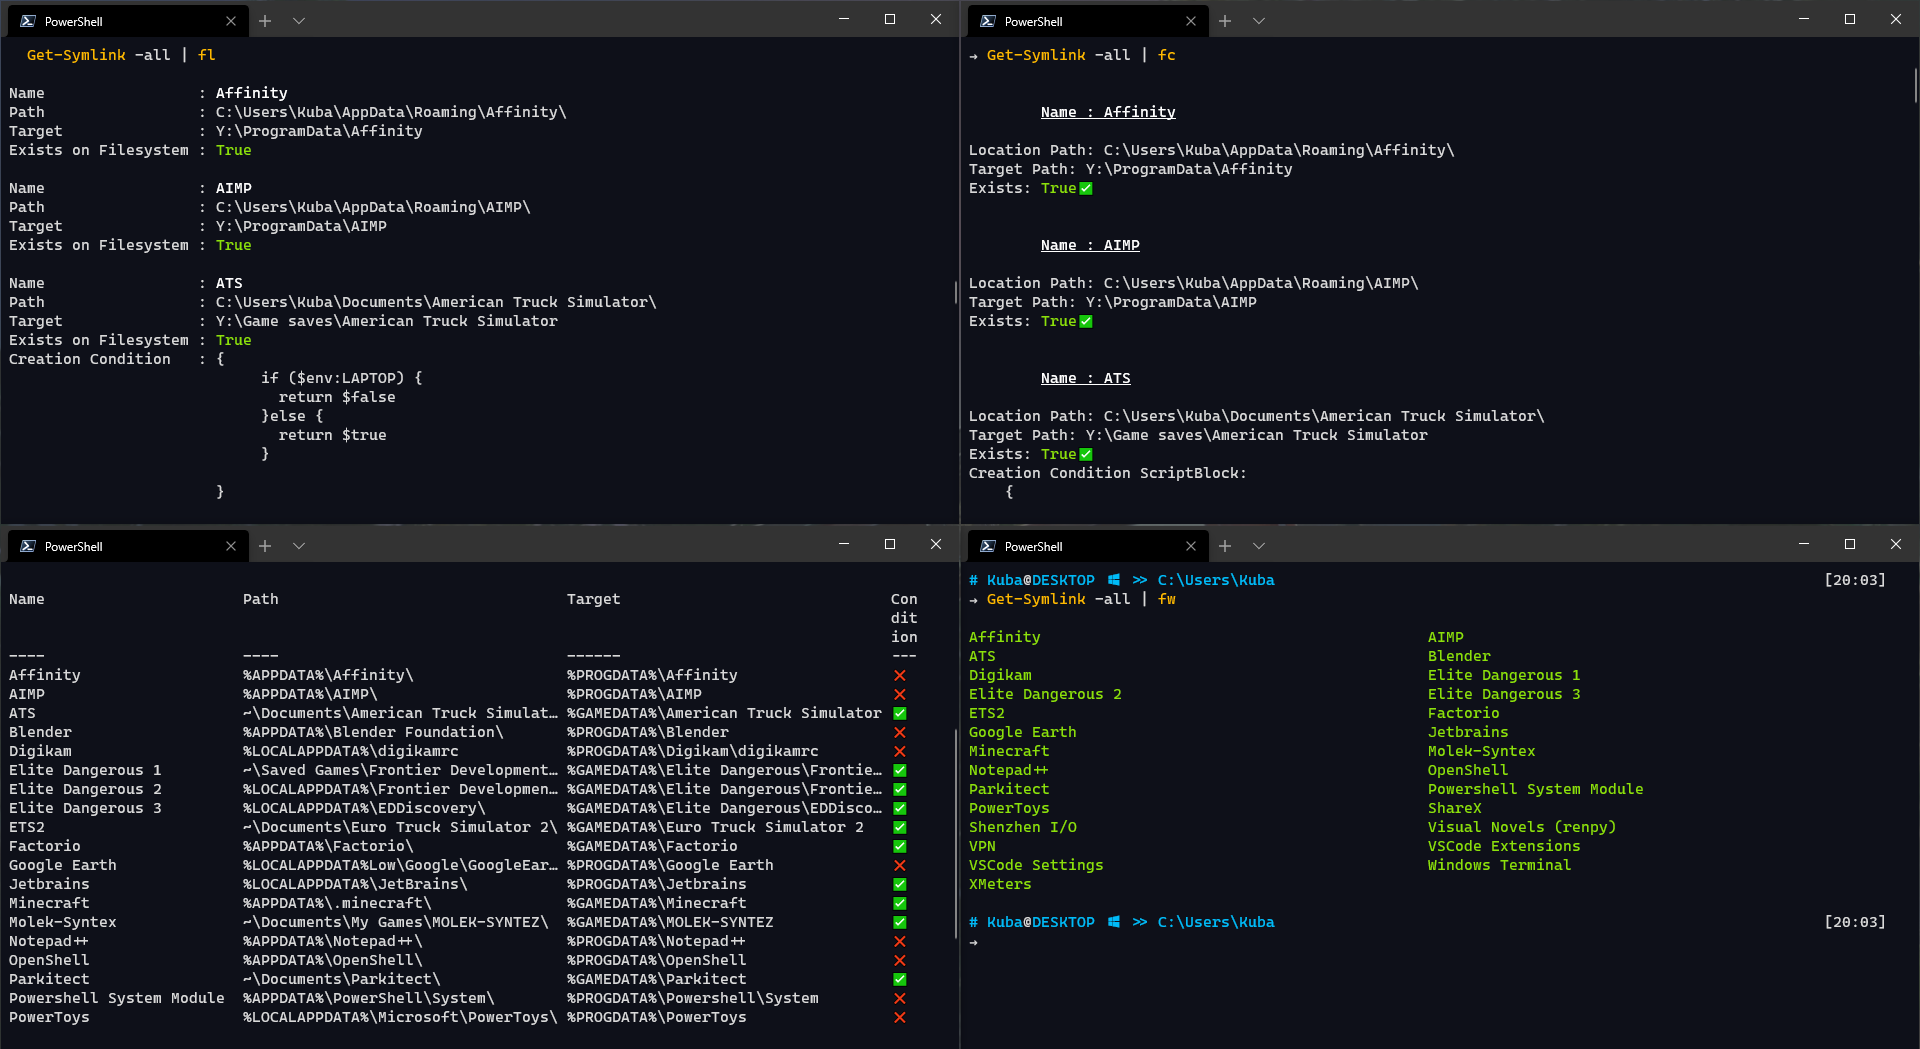
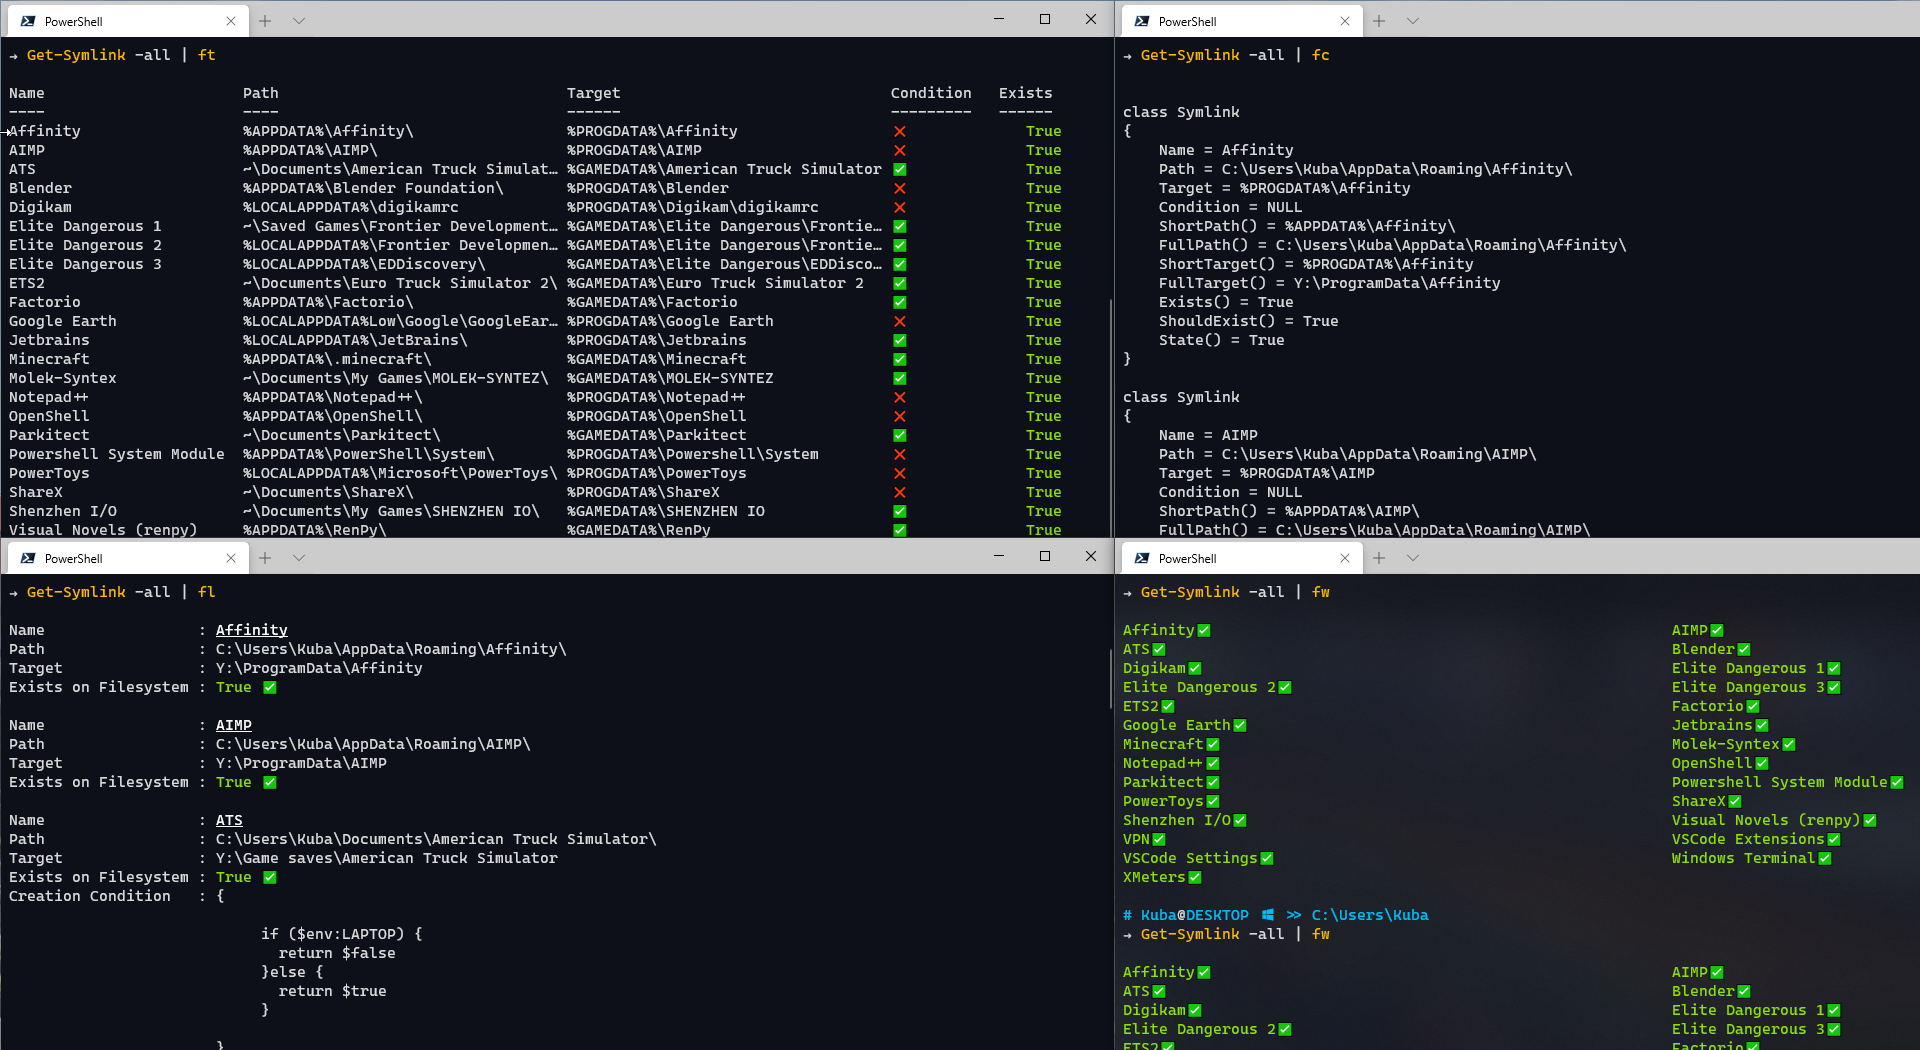
Update README
- Update readme to communicate terminal support better.
- Update example image to show the new formatting styles.

diff --git a/README.md b/README.md
@@ -111,7 +111,7 @@ The `[Symlink]` object within this module has custom formatting rules for all vi
 
 The `Format-Custom` & `Format-List` views contain the largest amount of information regarding the symlink.
 
-⚠This module supports `Fancy` formatting (using colours and emoijs) for enhanced readability. This *only* works within the **Windows Terminal** at the moment (support for other terminals which support ANSI-codes/emojis is WIP). The example below shows the enhanced formatting.
+⚠This module supports `Fancy` formatting (using extra ANSI codes and emoijs) for enhanced readability. This *only* works within the **Windows Terminal** at the moment (I've not tested this on other terminal emulators, but if you know that they support these extra features then let me know). The example below shows the enhanced formatting.
 
 ![Example](./example.png)
 
